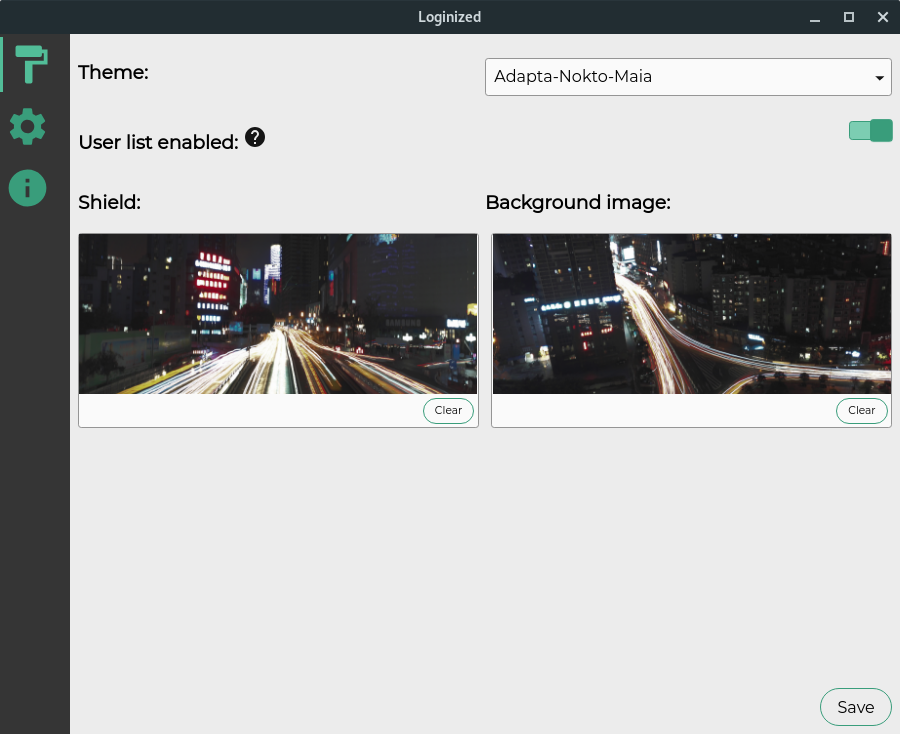
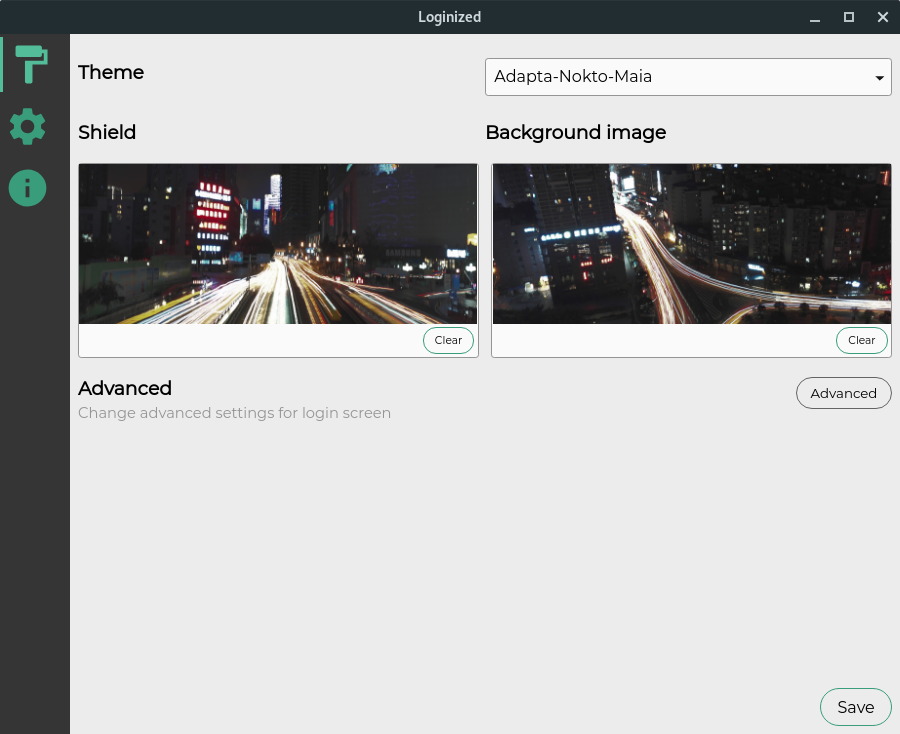
updated release information and screenshots

Changed region(s): [[0.0622, 0.1499, 0.9956, 0.5995]]

diff --git a/README.md b/README.md
@@ -6,6 +6,7 @@ Gnome GDM Login Theme Manager. Easy and Fast Login Theme Manipulation.
 * Change login theme (global system theme) from themes located in __/usr/share/themes__
 * Change login screen shield. (Login screen's lockscreen image)
 * Enable / disable user list at login. 
+* __NEW!__ Force rounded login icon. __Proven to work gnome-shell 3.32 onwards as it has support for it.__ Might also work earlier versions but is not tested and in case if it is not working nothing will be done to fix.
 
 As a cherry on top of the cake Loginized comes also with command line application __(loginized-cli)__.
 
@@ -23,17 +24,18 @@ Alternatively you may build the application from sources. See [WIKI](https://git
 ### Pre-requirements
  * Command `glib-compile-resources` is used to compile and extract the themes. This must be available in operating system in order to application work correctly.
  * Command `xdg-open` is used to open links via application. Missing this will not stop using the application.
+ * Command `notify-send` is used to notify new versions. Missing this will not stop using the application but will certainly break the updates notification.
  * Before Download PLEASE READ [__Things to consider__](#things-to-consider) section first.
 
 ### Downloads
 
 Distribution | DL | Sha1 | Required packages
 -------------|----|------|------------------
-Arch based   | [loginized-1.2.2.pacman](https://github.com/juhaku/loginized/releases/download/1.2.2/loginized-1.2.2.pacman) | 	 ae0dc2f2675fe7c0b944774b29557d81c8a4a1ef | glib2, xdg-utils
-RPM based    | [loginized-1.2.2.x86_64.rpm](https://github.com/juhaku/loginized/releases/download/1.2.2/loginized-1.2.2.x86_64.rpm) | 	 178b244b11264d14c44686d9049115d8da4d4282 | glib2-devel, xdg-utils (Open SUSE, Fedora)
-Debian based | [loginized_1.2.2_amd64.deb](https://github.com/juhaku/loginized/releases/download/1.2.2/loginized_1.2.2_amd64.deb) | 31730c19135e46dd349c8a08a4cfa1a48dd54e05 | libglib2.0-bin, libglib2.0-dev-bin, xdg-utils (Ubuntu)
-All          | [Loginized.1.2.2.AppImage](https://github.com/juhaku/loginized/releases/download/1.2.2/Loginized.1.2.2.AppImage) | 	 b7e3fb978b9ee0b54700293db26bc5d8ea409628 | Distro dependant
-All          | [loginized-1.2.2.zip](https://github.com/juhaku/loginized/releases/download/1.2.2/loginized-1.2.2.zip) | 	 3a0dc001a3fc1bb0494db58f76a5b739866998fe | Distro dependant
+Arch based   | [loginized-1.3.0.pacman](https://github.com/juhaku/loginized/releases/download/1.3.0/loginized-1.3.0.pacman) | 	 f28ee57efa74c822f429cf775e03583f430f93b6 | glib2, xdg-utils
+RPM based    | [loginized-1.3.0.x86_64.rpm](https://github.com/juhaku/loginized/releases/download/1.3.0/loginized-1.3.0.x86_64.rpm) | 	 2743289b457e5194f11250894b10c0f2e37758c7 | glib2-devel, xdg-utils (Open SUSE, Fedora)
+Debian based | [loginized_1.3.0_amd64.deb](https://github.com/juhaku/loginized/releases/download/1.3.0/loginized_1.3.0_amd64.deb) | 67a15347fe80b9a9ea5a81b73a6a0d9d9eaca139 | libglib2.0-bin, libglib2.0-dev-bin, xdg-utils (Ubuntu)
+All          | [Loginized.1.3.0.AppImage](https://github.com/juhaku/loginized/releases/download/1.3.0/Loginized.1.3.0.AppImage) | 	 674edaf40dd64ee33993193fc2590ea382acdd92 | Distro dependant
+All          | [loginized-1.3.0.zip](https://github.com/juhaku/loginized/releases/download/1.3.0/loginized-1.3.0.zip) | 	 a203ea876c8c536d0e6bf88e699401dbfd17ac87 | Distro dependant
 
 ### Tested on
 * Ubuntu 16.10 ->
